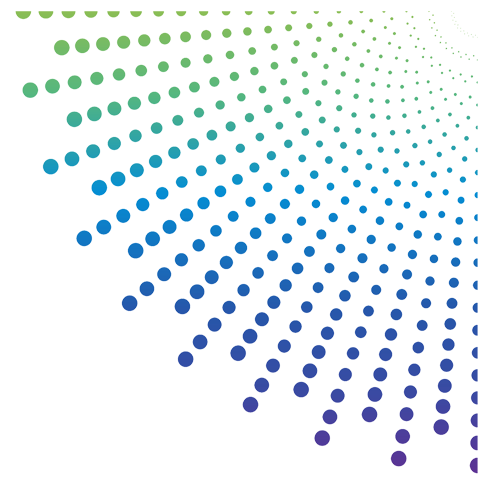
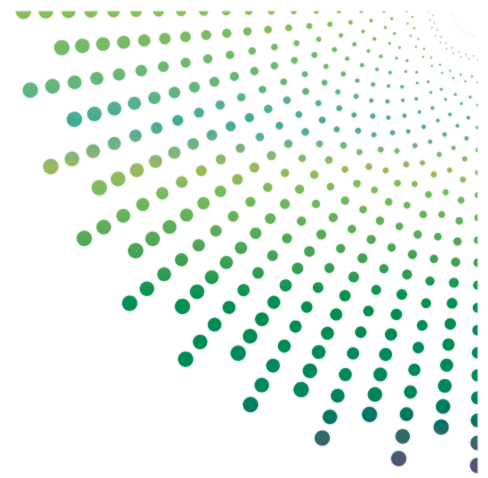
Update .gitignore to include .svn and modify CSS variables for primary color; replace multiple background and pattern images.

diff --git a/public/assets/css/styles.css b/public/assets/css/styles.css
@@ -2,7 +2,7 @@
 
 :root {
     --body-bg-rgb: 255, 255, 255;
-    --primary-rgb: 20, 87, 230;
+    --primary-rgb: 36, 167, 126;
     --secondary-rgb: 247, 131, 38;
     --warning-rgb: 245, 177, 75;
     --info-rgb: 78, 194, 240;
@@ -39,7 +39,6 @@
     --muted: #7987a1;
     --menu-color: #6b6b7e;
     --border-width: 1px;
-    /* Gray set */
     --gray-100: #f9fafb;
     --gray-200: #f2f4f5;
     --gray-300: #e6eaeb;
@@ -49,7 +48,6 @@
     --gray-700: #4d5875;
     --gray-800: #383853;
     --gray-900: #323251;
-    /* White set */
     --white-1: rgba(255, 255, 255, 0.1);
     --white-2: rgba(255, 255, 255, 0.2);
     --white-3: rgba(255, 255, 255, 0.3);
@@ -63,7 +61,6 @@
     --white-07: rgba(255, 255, 255, 0.07);
     --white-75: rgba(255, 255, 255, 0.075);
     --white-08: rgba(255, 255, 255, 0.08);
-    /* Black set */
     --black-1: rgba(0, 0, 0, 0.1);
     --black-2: rgba(0, 0, 0, 0.2);
     --black-3: rgba(0, 0, 0, 0.3);
@@ -75,7 +72,6 @@
     --black-9: rgba(0, 0, 0, 0.9);
     --black-03: rgba(0, 0, 0, 0.03);
     --black-05: rgba(0, 0, 0, 0.05);
-    /* Float */
     --float-start: left;
     --float-end: right;
 }
@@ -84,120 +80,6 @@ p {
     text-align: justify;
     font-size: 14px;
 }
-
-[data-theme-mode=dark] {
-    --body-bg-rgb: 23, 38, 58;
-    --custom-white: rgb(var(--body-bg-rgb));
-    --custom-black: #fff;
-    --border: rgba(255, 255, 255, 0.1);
-    --default-text-color: rgba(255, 255, 255, 0.7);
-    --color-dark: #fff;
-    --dark-rgb: 40, 40, 40;
-    --default-background: rgba(255, 255, 255, 0.1);
-    --default-body-bg-color: rgb(var(--body-bg-rgb), 0.95);
-    --muted: rgba(255, 255, 255, 0.4);
-    --light-rgb: 255, 255, 255, 0.1;
-    --menu-color: 255, 255, 255;
-    /* Gray Set */
-    --gray-100: rgba(255, 255, 255, 0.02);
-    --gray-200: rgba(255, 255, 255, 0.05);
-    --gray-300: rgba(255, 255, 255, 0.1);
-    --gray-400: rgba(255, 255, 255, 0.15);
-    --gray-500: rgba(255, 255, 255, 0.2);
-    --gray-600: rgba(255, 255, 255, 0.25);
-    --gray-700: rgba(255, 255, 255, 0.3);
-    --gray-800: rgba(255, 255, 255, 0.35);
-    --gray-900: rgba(255, 255, 255, 0.4);
-    /* white set */
-    --white-1: rgba(0, 0, 0, 0.1);
-    --white-2: rgba(0, 0, 0, 0.2);
-    --white-3: rgba(0, 0, 0, 0.3);
-    --white-4: rgba(0, 0, 0, 0.4);
-    --white-5: rgba(0, 0, 0, 0.5);
-    --white-6: rgba(0, 0, 0, 0.6);
-    --white-7: rgba(0, 0, 0, 0.7);
-    --white-8: rgba(0, 0, 0, 0.8);
-    --white-9: rgba(0, 0, 0, 0.9);
-    --white-05: rgba(0, 0, 0, 0.05);
-    --white-07: rgba(0, 0, 0, 0.07);
-    --white-75: rgba(0, 0, 0, 0.075);
-    --white-08: rgba(0, 0, 0, 0.08);
-    /* black set */
-    --black-1: rgba(255, 255, 255, 0.1);
-    --black-2: rgba(255, 255, 255, 0.2);
-    --black-3: rgba(255, 255, 255, 0.3);
-    --black-4: rgba(255, 255, 255, 0.4);
-    --black-5: rgba(255, 255, 255, 0.5);
-    --black-6: rgba(255, 255, 255, 0.6);
-    --black-7: rgba(255, 255, 255, 0.7);
-    --black-8: rgba(255, 255, 255, 0.8);
-    --black-9: rgba(255, 255, 255, 0.9);
-    --black-03: rgba(255, 255, 255, 0.03);
-    --black-05: rgba(255, 255, 255, 0.05);
-}
-
-@media (prefers-color-scheme: dark) {
-    [data-theme-mode=dark] {
-        --body-bg-rgb: 23, 38, 58;
-        --custom-white: rgb(var(--body-bg-rgb));
-        --custom-black: #fff;
-        --border: rgba(255, 255, 255, 0.1);
-        --default-text-color: rgba(255, 255, 255, 0.7);
-        --dark-rgb: 20, 20, 20;
-        --default-background: rgba(255, 255, 255, 0.1);
-        --default-body-bg-color: rgb(var(--body-bg-rgb), 0.95);
-        --muted: rgba(255, 255, 255, 0.4);
-        --light-rgb: 255, 255, 255, 0.1;
-        --menu-color: 255, 255, 255;
-        /* Gray Set */
-        --gray-100: rgba(255, 255, 255, 0.02);
-        --gray-200: rgba(255, 255, 255, 0.05);
-        --gray-300: rgba(255, 255, 255, 0.1);
-        --gray-400: rgba(255, 255, 255, 0.15);
-        --gray-500: rgba(255, 255, 255, 0.2);
-        --gray-600: rgba(255, 255, 255, 0.25);
-        --gray-700: rgba(255, 255, 255, 0.3);
-        --gray-800: rgba(255, 255, 255, 0.35);
-        --gray-900: rgba(255, 255, 255, 0.4);
-        /* white set */
-        --white-1: rgba(0, 0, 0, 0.1);
-        --white-2: rgba(0, 0, 0, 0.2);
-        --white-3: rgba(0, 0, 0, 0.3);
-        --white-4: rgba(0, 0, 0, 0.4);
-        --white-5: rgba(0, 0, 0, 0.5);
-        --white-6: rgba(0, 0, 0, 0.6);
-        --white-7: rgba(0, 0, 0, 0.7);
-        --white-8: rgba(0, 0, 0, 0.8);
-        --white-9: rgba(0, 0, 0, 0.9);
-        --white-05: rgba(0, 0, 0, 0.05);
-        --white-07: rgba(0, 0, 0, 0.07);
-        --white-75: rgba(0, 0, 0, 0.075);
-        --white-08: rgba(0, 0, 0, 0.08);
-        /* black set */
-        --black-1: rgba(255, 255, 255, 0.1);
-        --black-2: rgba(255, 255, 255, 0.2);
-        --black-3: rgba(255, 255, 255, 0.3);
-        --black-4: rgba(255, 255, 255, 0.4);
-        --black-5: rgba(255, 255, 255, 0.5);
-        --black-6: rgba(255, 255, 255, 0.6);
-        --black-7: rgba(255, 255, 255, 0.7);
-        --black-8: rgba(255, 255, 255, 0.8);
-        --black-9: rgba(255, 255, 255, 0.9);
-        --black-03: rgba(255, 255, 255, 0.03);
-        --black-05: rgba(255, 255, 255, 0.05);
-    }
-}
-
-[dir=rtl] {
-    --float-start: right;
-    --float-end: left;
-}
-
-/* ######## FONT ######## */
-
-/* ######## BOOTSTRAP ######## */
-
-/* Start::button default */
 
 .btn {
     padding: 0.5rem 1rem;
@@ -213,10 +95,6 @@ p {
 .btn:active {
     color: #fff;
 }
-
-/* End::button default */
-
-/* Start::btn-primary */
 
 .btn-primary {
     background-color: var(--primary-color);
@@ -253,10 +131,6 @@ p {
     background-color: var(--primary-color);
     border-color: var(--primary-border);
 }
-
-/* End::btn-primary */
-
-/* Start::btn-secondary */
 
 .btn-secondary {
     background-color: rgb(var(--secondary-rgb)) !important;
@@ -874,15 +748,15 @@ p {
 }
 
 .btn-info-dark {
-    background-color: #43abfc;
-    border-color: #43abfc;
+    background-color: rgb(var(--secondary-rgb));
+    border-color: rgb(var(--secondary-rgb));
     color: #fff;
 }
 
 .btn-info-dark:hover,
 .btn-info-dark.active {
-    background-color: #43abfc;
-    border-color: #43abfc;
+    background-color: rgb(var(--secondary-rgb));
+    border-color: rgb(var(--secondary-rgb));
     color: #fff;
     opacity: 0.9;
 }
